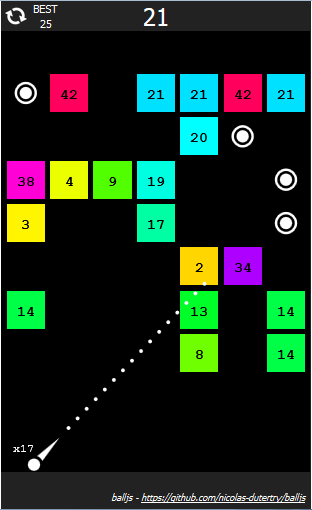
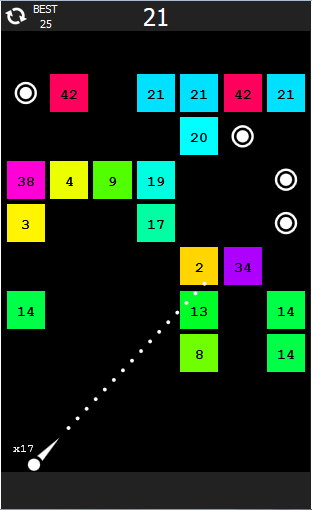
Completed ball game

Changed region(s): [[0.3462, 0.9706, 0.9808, 1.0]]

diff --git a/index.html b/index.html
@@ -24,6 +24,6 @@
         </div>
         <div id="help">Click, move down and release to shot</div>
         <div id="game-over">GAME OVER</div>
-        <div id="about">balljs - <a href="https://github.com/nicolas-dutertry/balljs" target="_new">https://github.com/nicolas-dutertry/balljs</a></div>
+        <div id="about">balljs - <a href="https://github.com/marsofjkic/Brick-breaker.git" target="_new">https://github.com/marsofjkic/Brick-breaker.git</a></div>
     </body>
  </html>

diff --git a/README.md b/README.md
@@ -3,8 +3,6 @@ Brick breaker game
 
 Touch the screen, move down and release to launch the ball. You can also use a mouse on standard computer.
 
-You can try the game here : https://nicolas.dutertry.com/balljs/
-
 ## Screenshots
 
 ![Screenshot 1](screen-shot-1.png?raw=true) ![Screenshot 2](screen-shot-2.png?raw=true)
